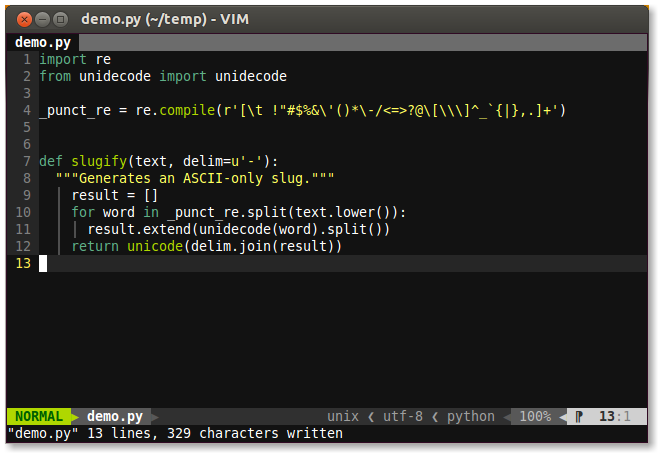
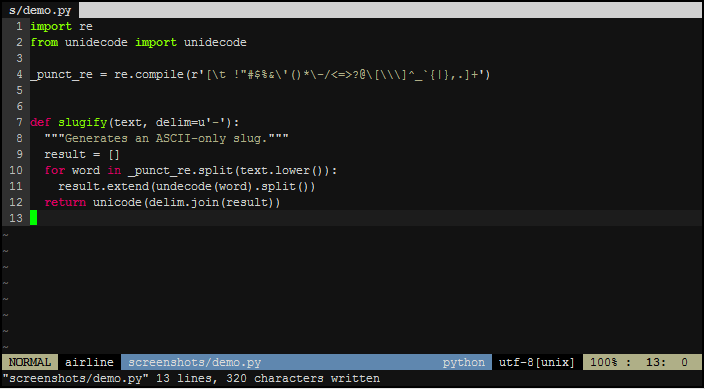
updated demo the python screenshot

Changed region(s): [[0.0, 0.0, 1.0, 1.0], [0.7599, 0.2159, 0.8207, 0.2776], [0.8207, 0.2159, 0.8511, 0.2468]]

diff --git a/screenshots/demo.py b/screenshots/demo.py
@@ -1,4 +1,5 @@
 import re
+from unidecode import unidecode
 
 _punct_re = re.compile(r'[\t !"#$%&\'()*\-/<=>?@\[\\\]^_`{|},.]+')
 
@@ -7,7 +8,6 @@ def slugify(text, delim=u'-'):
   """Generates an ASCII-only slug."""
   result = []
   for word in _punct_re.split(text.lower()):
-    word = word.encode('translit/long')
-  if word:
-    result.append(word)
+    result.extend(undecode(word).split())
   return unicode(delim.join(result))
+
